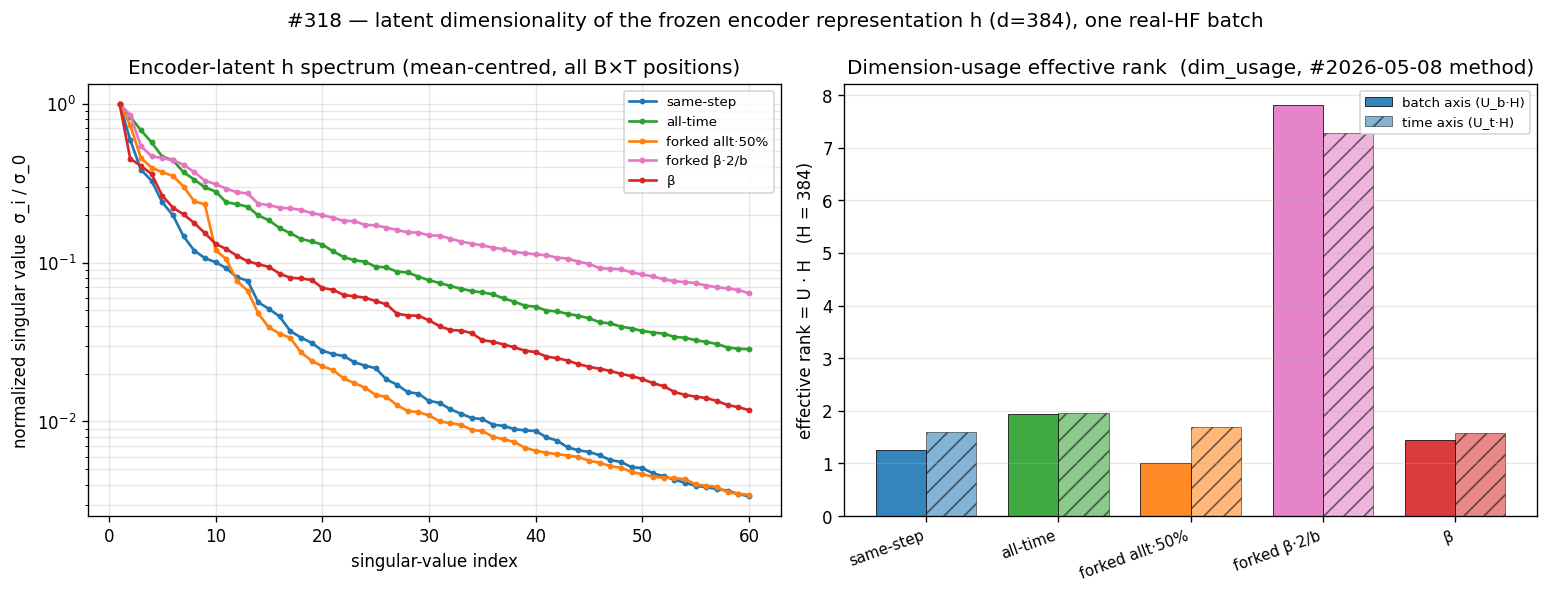
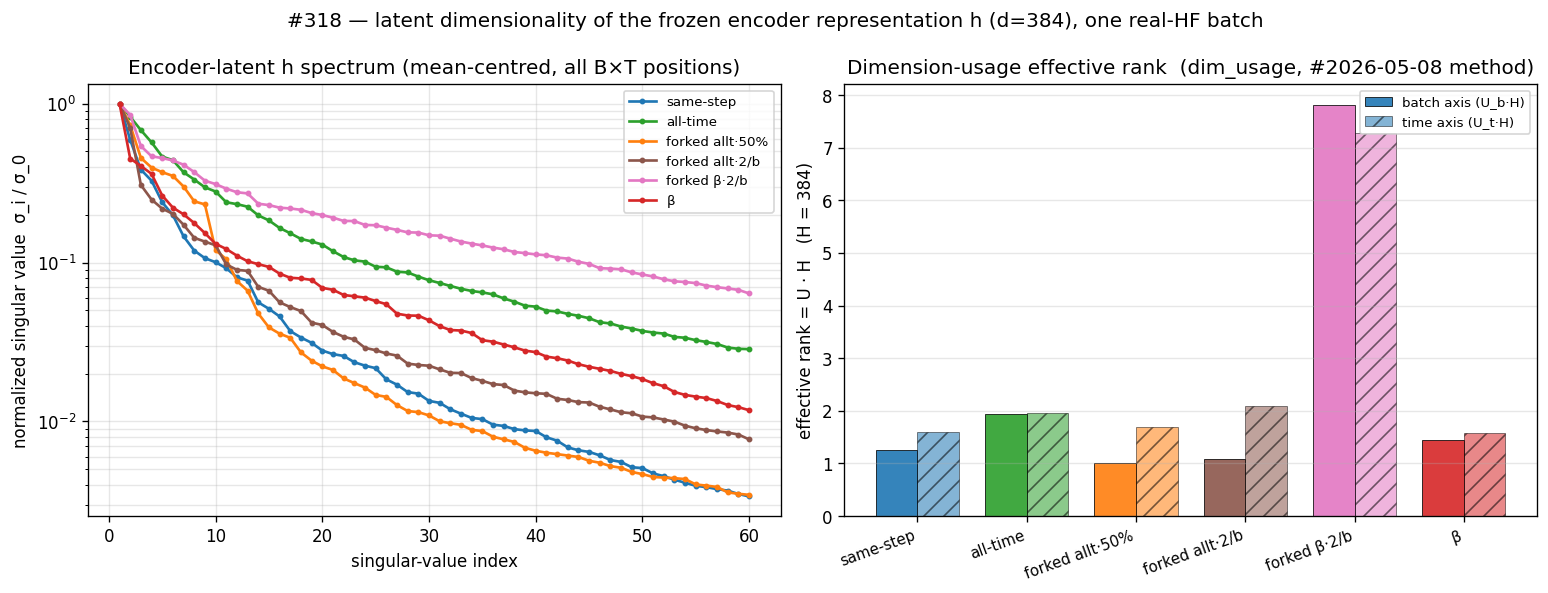
docs(#318): latent-dim — add forked allt·2/b; fork's rank boost is loss-specific
forked allt·2/b backbone finished, so latent_dim now covers all 6 arms (CPU re-run,
no GPU disruption). Finding sharpened: forked allt·2/b is collapsed (eff-rank 1.08,
PR 2.82) like the other all-time arms — so forked β·2/b's high rank (7.82) is the
β-loss × fork *interaction*, not the fork alone. Stated neutrally (rank still
doesn't order transfer).

diff --git a/experiments/2026-05-23_xseries_hh/RESULTS.md b/experiments/2026-05-23_xseries_hh/RESULTS.md
@@ -74,23 +74,26 @@ cos²)` (method from the 2026-05-08 init-u-sweep), batch and time axes. Colours
 match the scoreboard.*
 
 All arms are deeply collapsed — effective rank 1–8 of 384 (the post-training
-collapse the init-u-sweep flagged). **forked β·2/b is a clear outlier** — eff-rank
-≈ 7.8 (PR 10.2), ~4–8× every other arm. But latent rank does **not** order the arms
-by transfer: β has the best transfer (1.327) at a middling rank (1.45), while
-all-time carries the higher rank (1.93) yet transfers worse (1.414) — the same
-loss↔transfer decoupling seen above. (forked β·2/b's own transfer is still in eval.)
+collapse the init-u-sweep flagged) — except **forked β·2/b**, the clear outlier at
+eff-rank ≈ 7.8 (PR 10.2), ~4–8× the rest. The fork's effect on rank is
+**loss-specific**: on the β loss it lifts rank ~5× (β 1.45 → forked β·2/b 7.82),
+but on the all-time loss it does not (all-time 1.93 → forked allt·2/b 1.08) — so
+the boost is the β-loss × fork *interaction*, not the fork alone. And latent rank
+does **not** order the arms by transfer (β: best transfer at rank 1.45 < all-time's
+1.93, which transfers worse) — the loss↔transfer decoupling again; forked β·2/b's
+own transfer is still in eval.
 
 | arm | eff-rank (batch / time) | PR |
 |---|:--:|:--:|
 | same-step | 1.26 / 1.60 | 2.78 |
 | all-time | 1.93 / 1.95 | 7.53 |
 | forked allt·50% | 1.01 / 1.69 | 4.14 |
+| forked allt·2/b | 1.08 / 2.09 | 2.82 |
 | **forked β·2/b** | **7.82 / 7.29** | **10.19** |
 | β | 1.45 / 1.57 | 3.17 |
 
 *eff-rank = `dim_usage · 384` over the batch / time axes; PR = participation ratio
-of the squared spectrum. forked allt·2/b omitted — backbone still training. Script:
-`scripts/latent_dim.py`.*
+of the squared spectrum. Script: `scripts/latent_dim.py`.*
 
 ## Protocol
 
